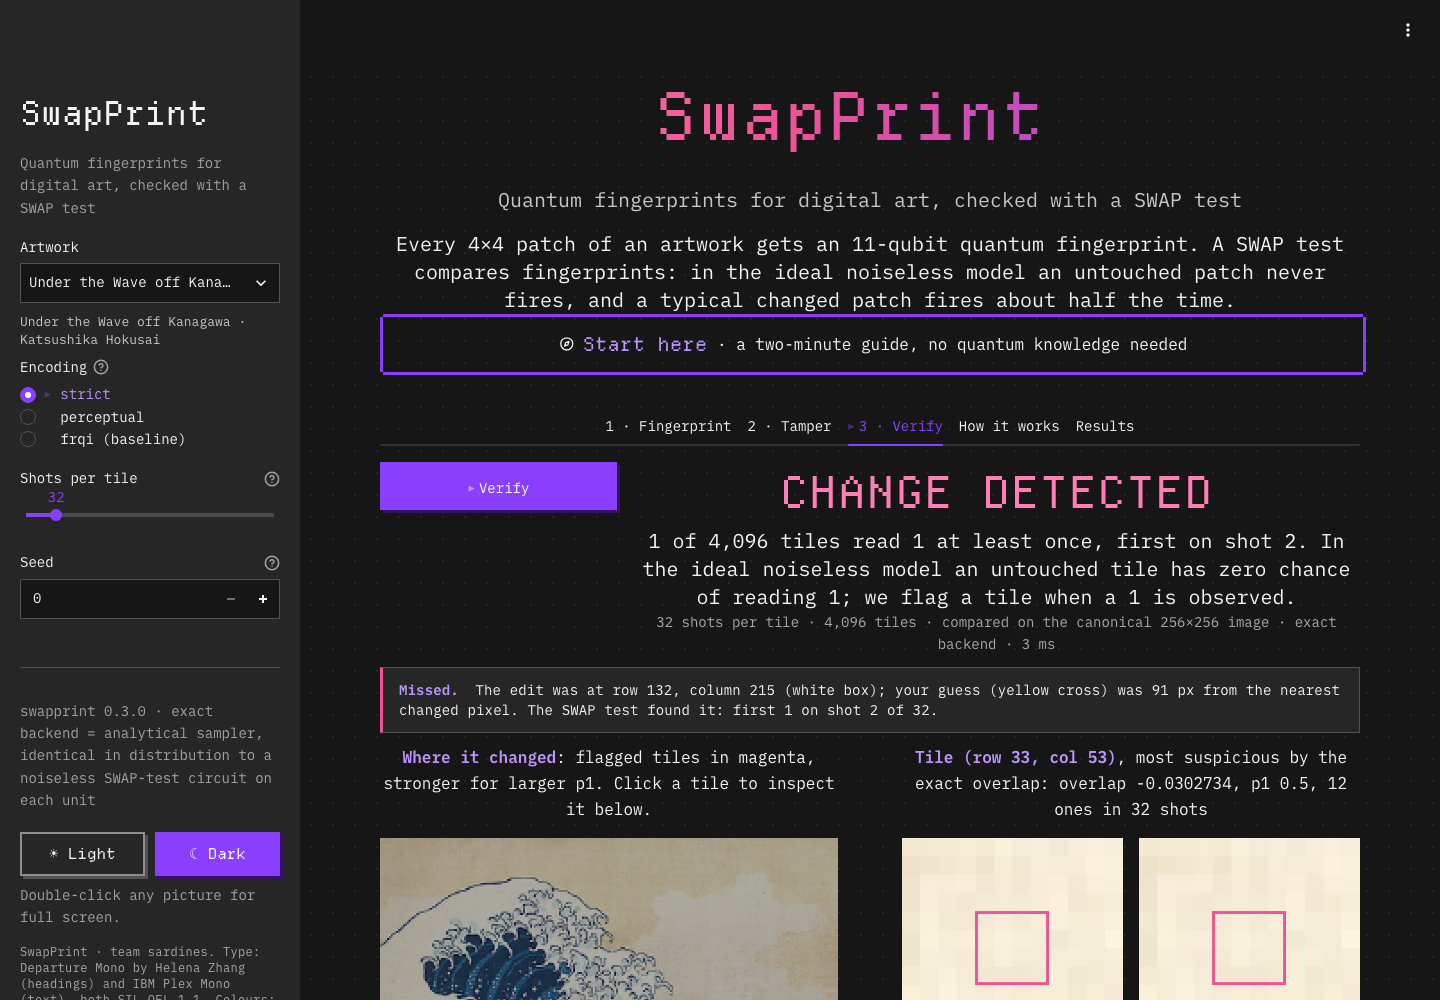
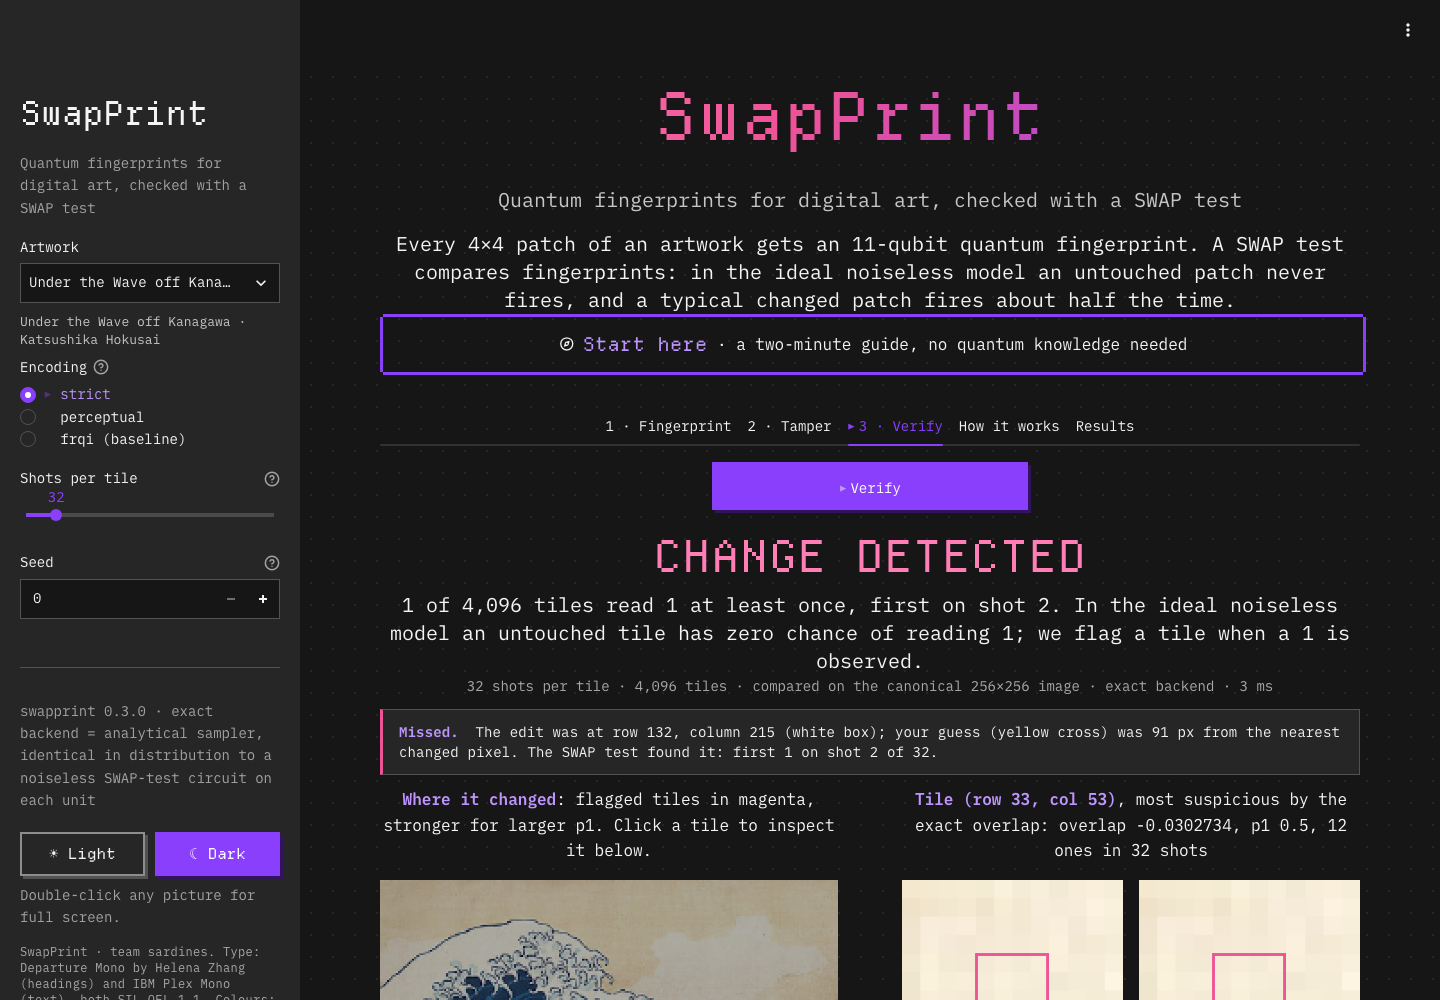
app: Verify button on its own centred row, verdict full width underneath (Ansh's request)

Changed region(s): [[0.25, 0.465, 0.9688, 1.0], [0.25, 0.465, 0.4375, 0.527]]

diff --git a/app/streamlit_app.py b/app/streamlit_app.py
@@ -716,22 +716,23 @@ def tab_verify():
                 st.rerun()
         return
 
-    top = st.columns([1, 3])
-    if top[0].button("Verify", type="primary", width="stretch"):
+    # the Verify button on its own centred row; the verdict and its summary go full width underneath
+    _, mid, _ = st.columns([1, 1, 1])
+    if mid.button("Verify", type="primary", width="stretch"):
         run_verify()
         st.rerun()
     v = ss.verify
     if v is None:
-        top[1].markdown("Compare the edited image with the original, tile by tile, with SWAP tests. "
+        st.markdown("Compare the edited image with the original, tile by tile, with SWAP tests. "
                         + ("" if ss.history else "_No edits yet: Verify the untouched image, or make an edit in [2 · Tamper](#go-tamper)._"))
         return
     if v["key"] != key:
-        top[1].warning("The image or settings changed since the last check: press Verify again.")
+        st.warning("The image or settings changed since the last check: press Verify again.")
         return
     cmp = v["cmp"]
     hit = cmp.tampered
     word = core.UNIT_WORD[mode]
-    top[1].markdown(f'<div class="verdict {"hit" if hit else "miss"}">{core.verdict(cmp)}</div>'
+    st.markdown(f'<div class="verdict {"hit" if hit else "miss"}">{core.verdict(cmp)}</div>'
                     f'<div class="lead">{core.summary_line(cmp)}</div>'
                     f'<div class="fine">{cmp.shots:,} shots per {word} · {cmp.flagged.size:,} {word}s · compared on '
                     f'the canonical 256×256 image · exact backend · {v["seconds"] * 1000:.0f} ms</div>',
